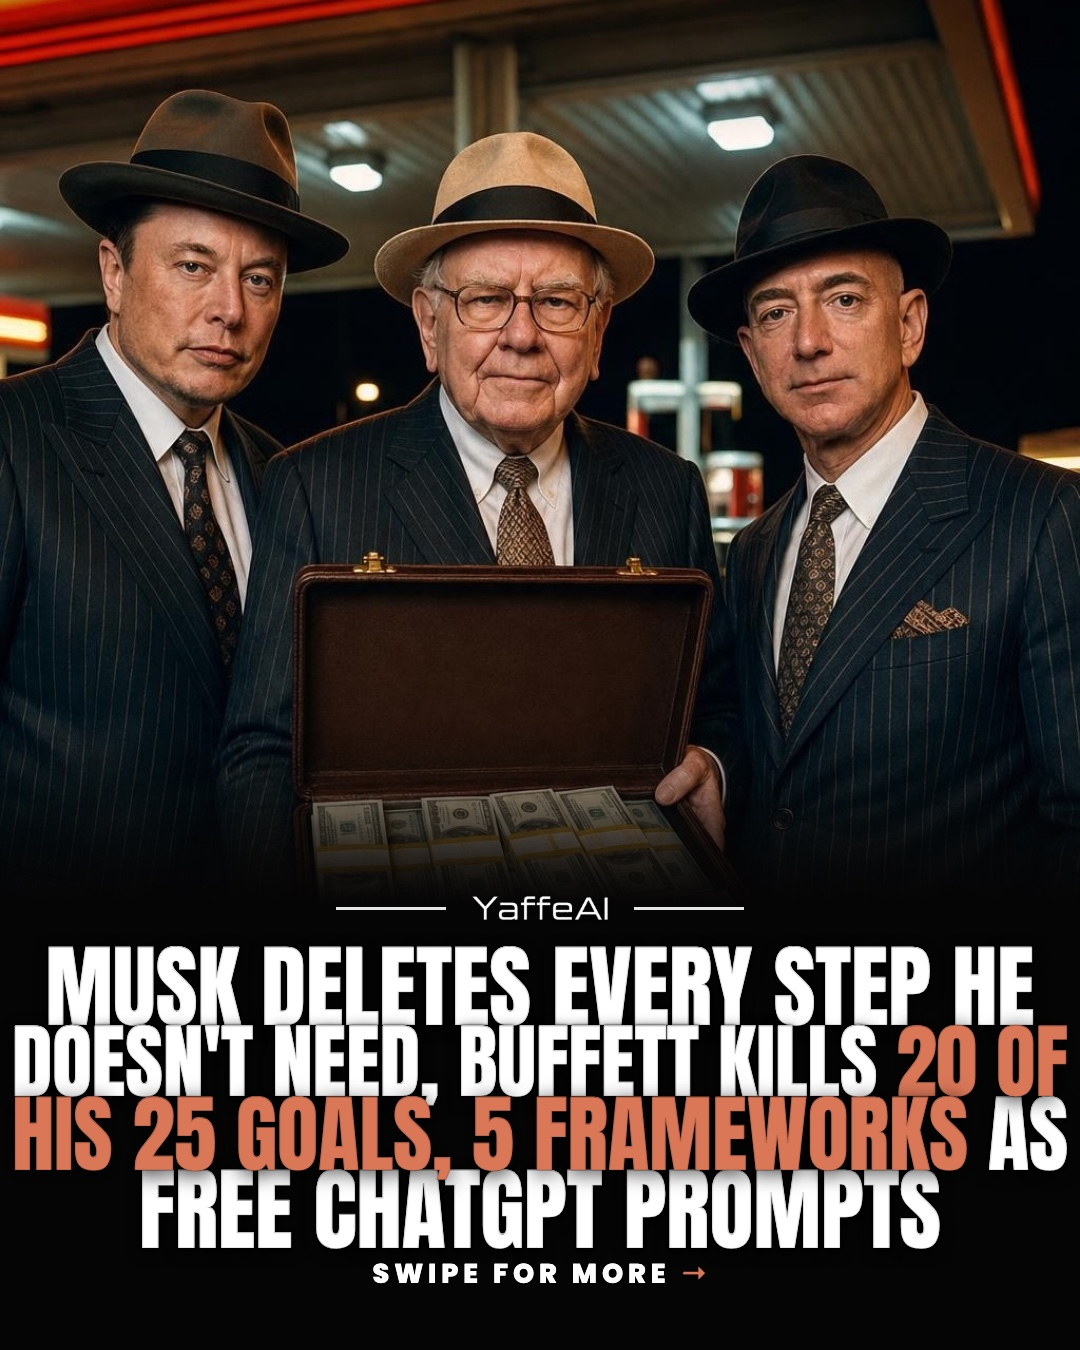
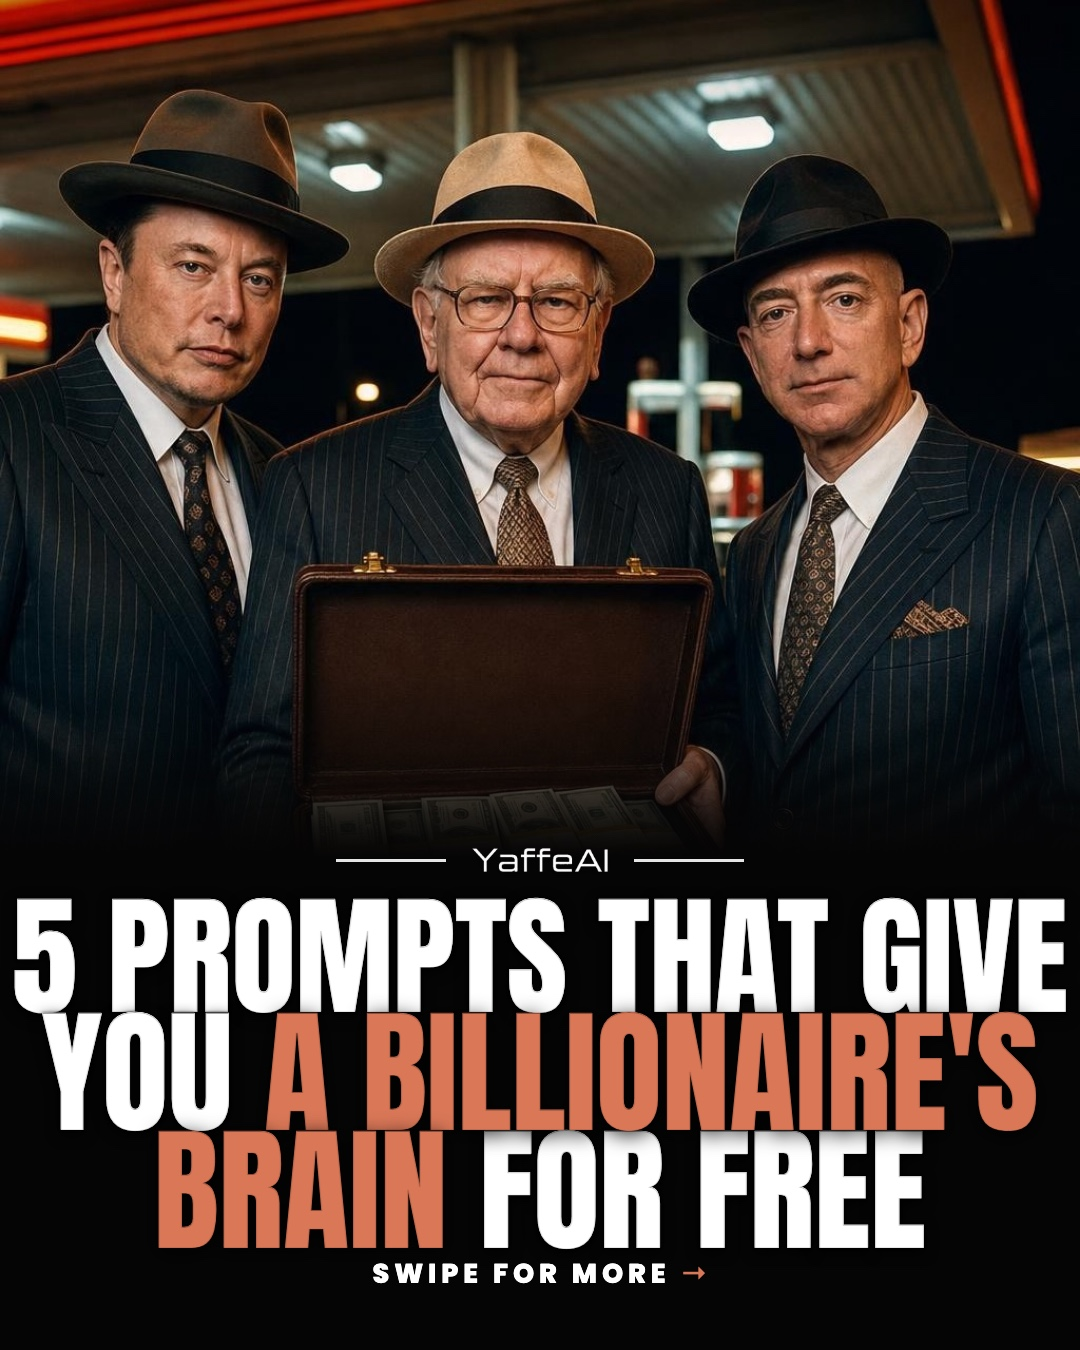
Hole-close pass: kicker drop in all cover paths + reel-title comprehension gate
drop_stale_kicker lives in viral.py and fires inside tournament() and
hebrew_cover() (every return path), so edu and HE lanes inherit the
duplicated-strip check write.py had inline; \w regex covers Hebrew.
reel_title_judge now runs the blind-reader comprehension gate (EN+HE),
verified live killing a stapled-facts title. Billionaire v2 dir carries
the rebuilt v3 hook as the learn-forward record; the live IG post
intentionally keeps its original hook (owner call, Aug 3).

Changed region(s): [[0.0, 0.5289, 1.0, 0.9333]]

diff --git a/ig/viral.py b/ig/viral.py
@@ -594,6 +594,22 @@ def sharpen_pass(post, win, ctx, material="", lang="en", news=True, img=""):
     return win2
 
 
+def drop_stale_kicker(post):
+    """The tournament/specialist may swap in a headline that already says the
+    kicker's fact — a duplicated strip reads broken (forensic Aug 2). Lives
+    HERE so every cover-replacing path inherits it (hole-close Aug 3: write.py
+    had this inline, edu.py and the HE lane had nothing). \\w matches Hebrew."""
+    s0 = (post.get("slides") or [{}])[0]
+    hl = re.sub(r"<[^>]+>", "", s0.get("headline", "")).lower()
+    kk = re.sub(r"<[^>]+>", "", s0.get("kicker") or "").lower()
+    if not kk:
+        return
+    kw = [w.rstrip("s") for w in re.findall(r"[\w$%]+", kk) if len(w) > 3]
+    if kw and sum(w in hl for w in kw) / len(kw) >= 0.5:
+        print("kicker overlaps final headline — dropped", file=sys.stderr)
+        s0.pop("kicker", None)
+
+
 def tournament(post, story, ctx, material=""):
     """English tournament: writer's candidates + an independent playbook batch
     -> anchor filter -> per-type judge -> winner becomes the cover. Same
@@ -608,12 +624,14 @@ def tournament(post, story, ctx, material=""):
         post["hook_fallback"] = "no-valid-winner"  # daily report flag (Aug 3)
         print("viral tournament: no valid winner — keeping writer's cover "
               "(flagged for the daily report)", file=sys.stderr)
+        drop_stale_kicker(post)
         return post
     post["hook_tournament"] = record or {"candidates": [win["headline"]],
                                          "scores": [], "winner": 0,
                                          "story_type": ctx["story_type"]}
     win = sharpen_pass(post, win, ctx, material, news=bool(story))
     post["slides"][0]["headline"] = _no_dashes(win["headline"])
+    drop_stale_kicker(post)
     return post
 
 
@@ -638,6 +656,7 @@ def hebrew_cover(out, story, ctx, material="", img=""):
         cands.append(loc)
     win, record = judge(cands, ctx, lang="he")
     if not win:
+        drop_stale_kicker(out)
         return out
     win = sharpen_pass(out, win, ctx, material, lang="he", img=img)
     hl = _no_dashes(win["headline"])
@@ -647,6 +666,7 @@ def hebrew_cover(out, story, ctx, material="", img=""):
     out["slides"][0].pop("subline", None)  # dead field (owner Aug 1)
     if record:
         out["hook_tournament_he"] = record
+    drop_stale_kicker(out)  # HE headline replaced — re-check the strip (Aug 3)
     return out
 
 
@@ -663,6 +683,11 @@ def reel_title_judge(cands, lang="en"):
     post-mortem rules: no unknown-brand anchors, and when the clip's wow IS a
     concrete specific, the title says it. Returns (title, why) or (None, None)."""
     cands = list(dict.fromkeys(t.strip() for t in cands if t and t.strip()))
+    # blind-reader gate (hole-close Aug 3: covers got the comprehension test,
+    # reel titles didn't — same artifact, same "hard to understand" risk).
+    # Falls open inside _comprehension; wrap/unwrap the plain strings.
+    gated = _comprehension([{"headline": t} for t in cands], lang=lang)
+    cands = [c["headline"] for c in gated]
     if len(cands) < 2:
         return (cands[0] if cands else None), None
     random.shuffle(cands)

diff --git a/ig/write.py b/ig/write.py
@@ -1227,16 +1227,9 @@ def main(stories_path):
         post.pop("hook_candidates", None)
     else:
         post = viral.tournament(post, story, ctx, material)
-    # the tournament may swap in a headline that already says the kicker's
-    # fact — a duplicated strip reads broken, so drop it (forensic Aug 2)
-    _hl = re.sub(r"<[^>]+>", "", post["slides"][0].get("headline", "")).lower()
-    _kk = re.sub(r"<[^>]+>", "", post["slides"][0].get("kicker") or "").lower()
-    if _kk:
-        kw = [w.rstrip("s") for w in re.findall(r"[a-z0-9$%]+", _kk)
-              if len(w) > 3]
-        if kw and sum(w in _hl for w in kw) / len(kw) >= 0.5:
-            print("kicker overlaps final headline — dropped", file=sys.stderr)
-            post["slides"][0].pop("kicker", None)
+    # duplicated-strip check moved into viral.drop_stale_kicker (Aug 3) —
+    # tournament runs it itself; this call covers the card path that skips it
+    viral.drop_stale_kicker(post)
     post["viral"] = ctx  # he.py re-creates the Hebrew hook from this
 
     art_direct(post, story["title"])  # optimal image prompts for the FINAL cover
